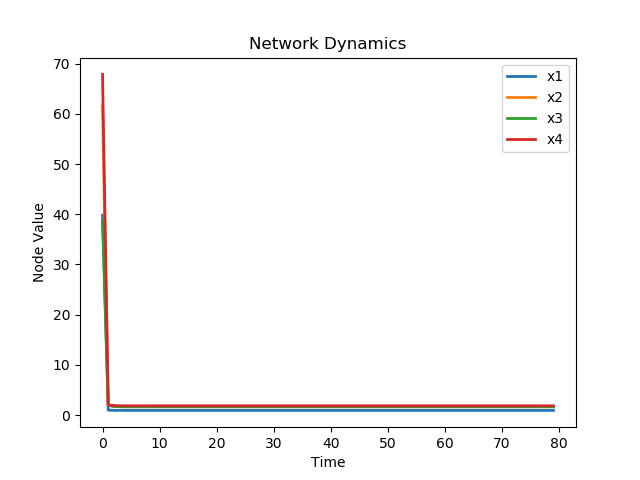
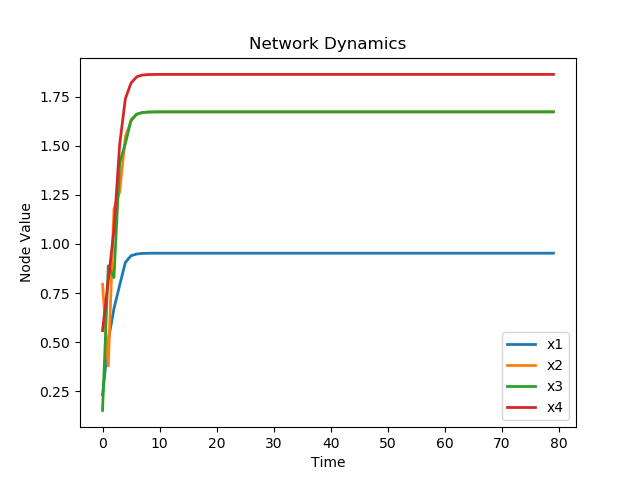
added eigencentrality measure and spectral radius function

diff --git a/code/specializer.py b/code/specializer.py
@@ -1,9 +1,11 @@
 import numpy as np
 import scipy.linalg as la
+import scipy.optimize as opt
 import networkx as nx
-from scipy.linalg import block_diag
 import itertools
 import matplotlib.pyplot as plt
+import autograd as ag
+import autograd.numpy as anp
 
 ######## WORK TO BE DONE ##########
 """
@@ -112,7 +114,7 @@ class DirectedGraph:
         # grab the iterative funciton
         a, f = self.set_dynamics()
         G = lambda t: [a[self.origination(k)](t[k]) + f[k](t) for k in range(self.n)]
-        
+
         # initialize an array with the initial condition
         t = [None]*iters
         t[0] = initial_condition
@@ -214,7 +216,7 @@ class DirectedGraph:
             print(f'This is the original matrix:\n{self.A}\n')
 
         # create the new specialized matrix
-        S = block_diag(*diag)
+        S = la.block_diag(*diag)
         for l in links: S[l] = 1
         self.A = S
         self.indices = np.arange(n_nodes)
@@ -434,7 +436,7 @@ class DirectedGraph:
 
         return links
 
-    def eigen_centrality(self):
+    def structural_eigen_centrality(self):
         B = self.A + np.eye(self.n)
         eigs = la.eig(B)
         i = np.argmax(eigs[0])
@@ -442,3 +444,41 @@ class DirectedGraph:
         p /= p.sum()
         ranks = {self.labeler[i]: np.real(p[i]) for i in range(self.n)}
         return ranks
+
+    def stability_matrix(self):
+        a,f = self.dynamics
+        Df = [[None]*self.n]*self.n
+        for i in range(self.n):
+            result = opt.minimize_scalar(lambda t: -1*ag.grad(a[self.origination(i)])(t))
+            Df[i][i] = np.abs(result['x'])
+            if result['success'] == False:
+                raise Warning('One or more of the functions did not converge to a maximal value')
+        for i in range(self.n):
+            o_i = self.origination(i)
+            for j in range(self.n):
+                o_j = self.origination(j)
+                if (o_i == o_j):
+                    Df[i][j] = 0
+                    continue
+                if (i == j): continue
+                result = opt.minimize_scalar(lambda t: -1*ag.grad(f[o_i,o_j])(t))
+                Df[i][j] = np.abs(result['x'])
+            if result['success'] == False:
+                raise Warning('One or more of the functions did not converge to a maximal value')
+        # if any(successes == False):
+        #     raise Warning('One or more of the functions did not converge to a maximal value')
+        return np.array(Df)
+
+    def eigen_centrality(self):
+        B = self.stability_matrix() + np.eye(self.n)
+        eigs = la.eig(B)
+        i = np.argmax(eigs[0])
+        p = eigs[1][:,i]
+        p /= p.sum()
+        ranks = {self.labeler[i]: np.real(p[i]) for i in range(self.n)}
+        return ranks
+
+    def spectral_radius(self):
+        Df = self.stability_matrix()
+        eigs = la.eig(Df)
+        return np.max(eigs[0])

diff --git a/code/workbook2.py b/code/workbook2.py
@@ -5,6 +5,7 @@ from importlib import reload
 import networkx as nx
 import matplotlib.pyplot as plt
 import time
+import autograd.numpy as anp
 
 if __name__ == "__main__":
     reload(s)
@@ -25,7 +26,7 @@ if __name__ == "__main__":
     labelsB = ['y1','y2','y3']
 
     def sig(x):
-        return np.tanh(x)
+        return anp.tanh(x)
     def sig2(x):
         return 2*np.tanh(x)
     def zero(x):
@@ -50,23 +51,24 @@ if __name__ == "__main__":
     ])
     a = np.array([func1,func2,func3,func4,func5])
 
-    # G = s.DirectedGraph(A, (a,f), labels=labelsA)
+    G = s.DirectedGraph(A, (a,f), labels=labelsA)
+    print(G.eigen_centrality())
     # G.iterate(80, np.random.random(G.n)*100, graph=True, save_img=True, title="test2")
 
     # G.specialize(['x1','x2'])
     # G.iterate(80, np.random.random(G.n)*100, graph=True, save_img=True, title="test2 spec 1")
 
-    h = np.array([
-        [zero,func1,zero],
-        [func1,zero,func1],
-        [func1,func1,zero]
-    ])
-    a1 = np.array([zero,zero,zero])
-    H = s.DirectedGraph(B, (a1,h), labels=labelsB)
-    H.iterate(80, np.random.random(H.n)*10, graph=True, save_img=True, title='test_ex2')
+    # h = np.array([
+    #     [zero,func1,zero],
+    #     [func1,zero,func1],
+    #     [func1,func1,zero]
+    # ])
+    # a1 = np.array([zero,zero,zero])
+    # H = s.DirectedGraph(B, (a1,h), labels=labelsB)
+    # H.iterate(80, np.random.random(H.n)*10, graph=True, save_img=True, title='test_ex2')
 
-    H.specialize(['y1','y2'])
-    print(H.A)
-    print(H.labeler)
-    print(H.eigen_centrality())
-    H.iterate(80, np.random.random(H.n)*10, graph=True, save_img=True, title='test_ex2 spec 1')
+    # H.specialize(['y1','y2'])
+    # print(H.A)
+    # print(H.labeler)
+    # print(H.structural_eigen_centrality())
+    # H.iterate(80, np.random.random(H.n)*10, graph=True, save_img=True, title='test_ex2 spec 1')

diff --git a/code/workbook3.py b/code/workbook3.py
@@ -5,6 +5,7 @@ from importlib import reload
 import networkx as nx
 import matplotlib.pyplot as plt
 import time
+import autograd.numpy as anp
 
 if __name__ == "__main__":
     reload(s)
@@ -16,7 +17,7 @@ if __name__ == "__main__":
     ])
     labelsA = ['x1','x2','x3','x4']
     def sig(x):
-        return np.tanh(x)
+        return anp.tanh(x)
     def zero(x):
         return 0*x
     f = np.array([
@@ -27,7 +28,11 @@ if __name__ == "__main__":
     ])
     a = np.array([zero,zero,zero,zero])
     G = s.DirectedGraph(A, (a,f), labels=labelsA)
-    G.iterate(80, np.random.random(G.n)*100, graph=True, save_img=True, title="test_simple")
+    G.iterate(80, np.random.random(G.n), graph=True, save_img=True, title="../graphs/test_simple")
 
     G.specialize(['x1','x4'])
-    G.iterate(80, np.random.random(G.n)*100, graph=True, save_img=True, title="test_simple_spec1")
+    G.iterate(80, np.random.random(G.n), graph=True, save_img=True, title="../graphs/test_simple_spec1")
+    print(G.eigen_centrality())
+    print(G.A)
+    print(G.labeler)
+    print(G.spectral_radius())
